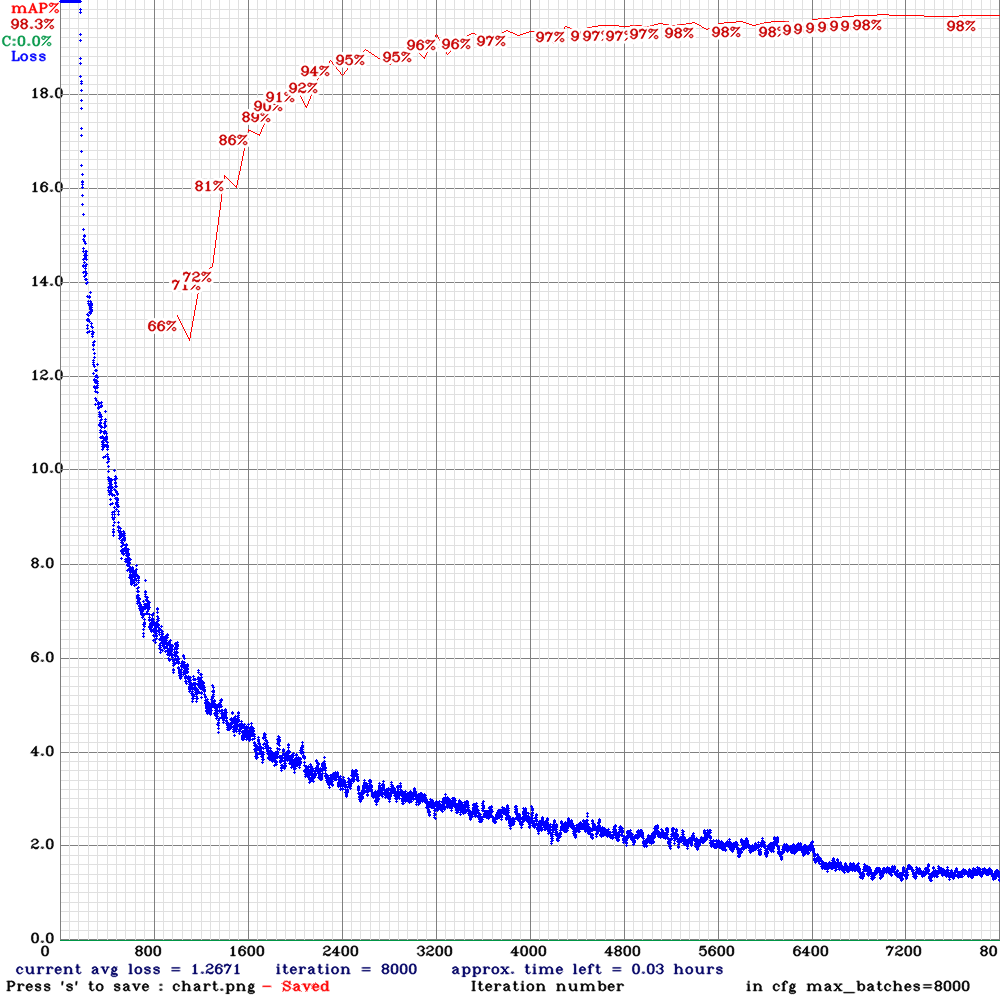
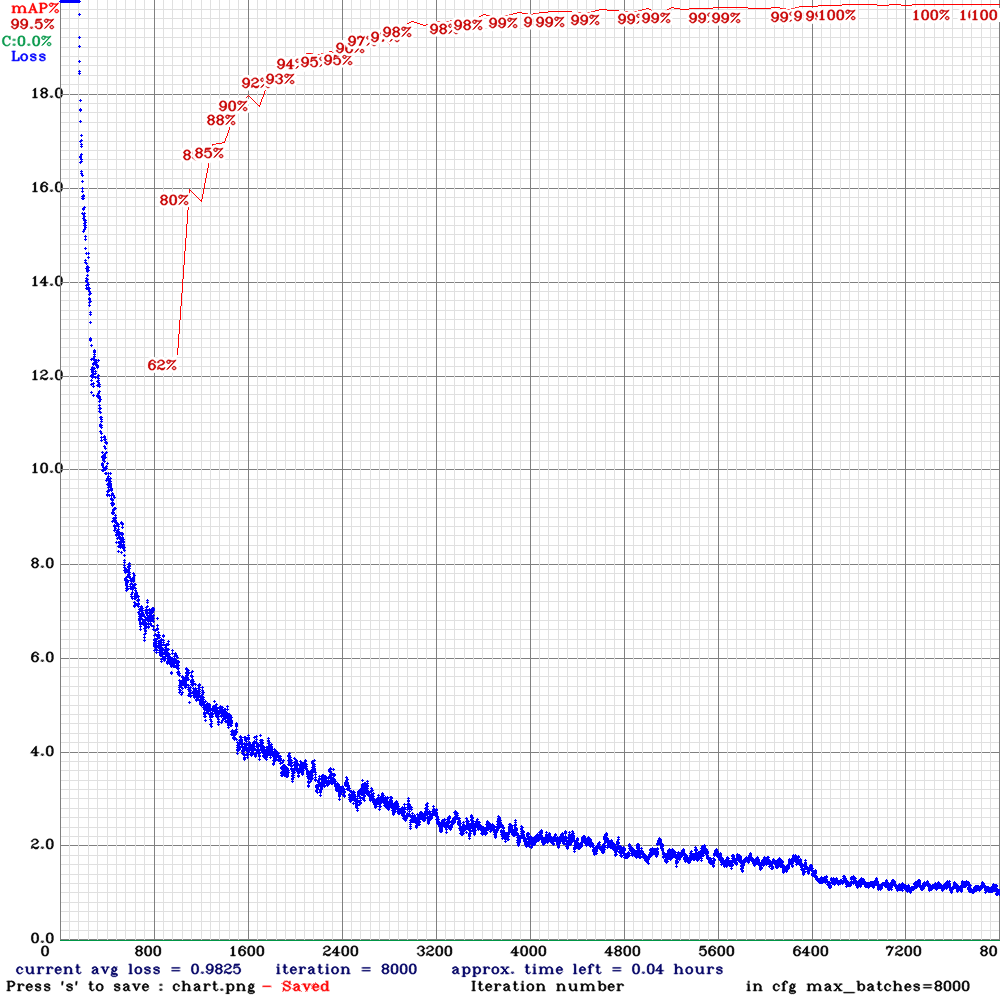
Added retrained model with input size: 1024x608

diff --git a/maskcam/integrations/yolo/detector_trt.py b/maskcam/integrations/yolo/detector_trt.py
@@ -46,7 +46,7 @@ class DetectorYoloTRT:
         self.buffers = self._allocate_buffers(self.engine, 1)
 
         self.input_h = 608  # Set in yolov4-facemask.cfg
-        self.input_w = 608
+        self.input_w = 1024
         self.context.set_binding_shape(0, (1, 3, self.input_h, self.input_w))
 
     def detect(self, frame, rescale_detections=True):
